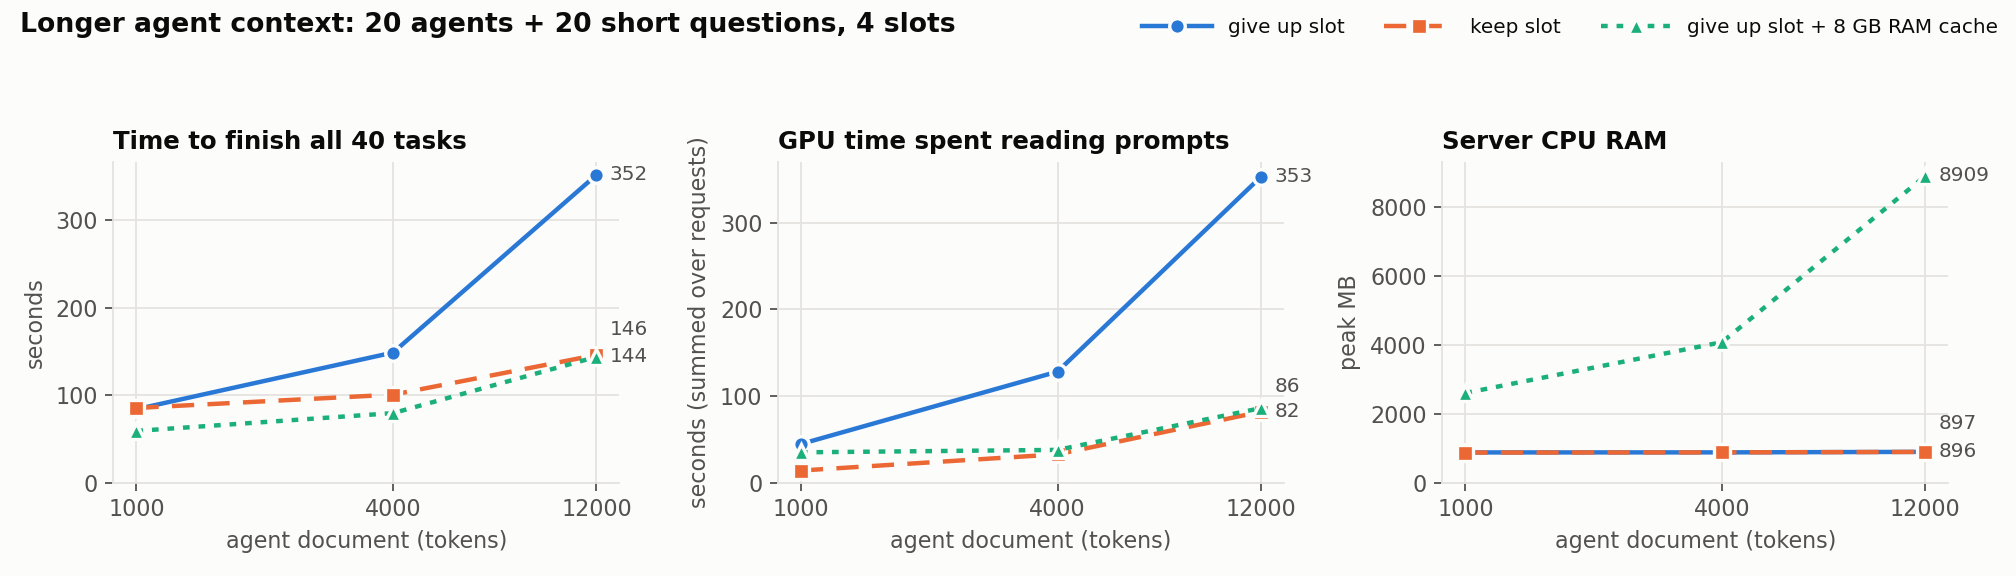
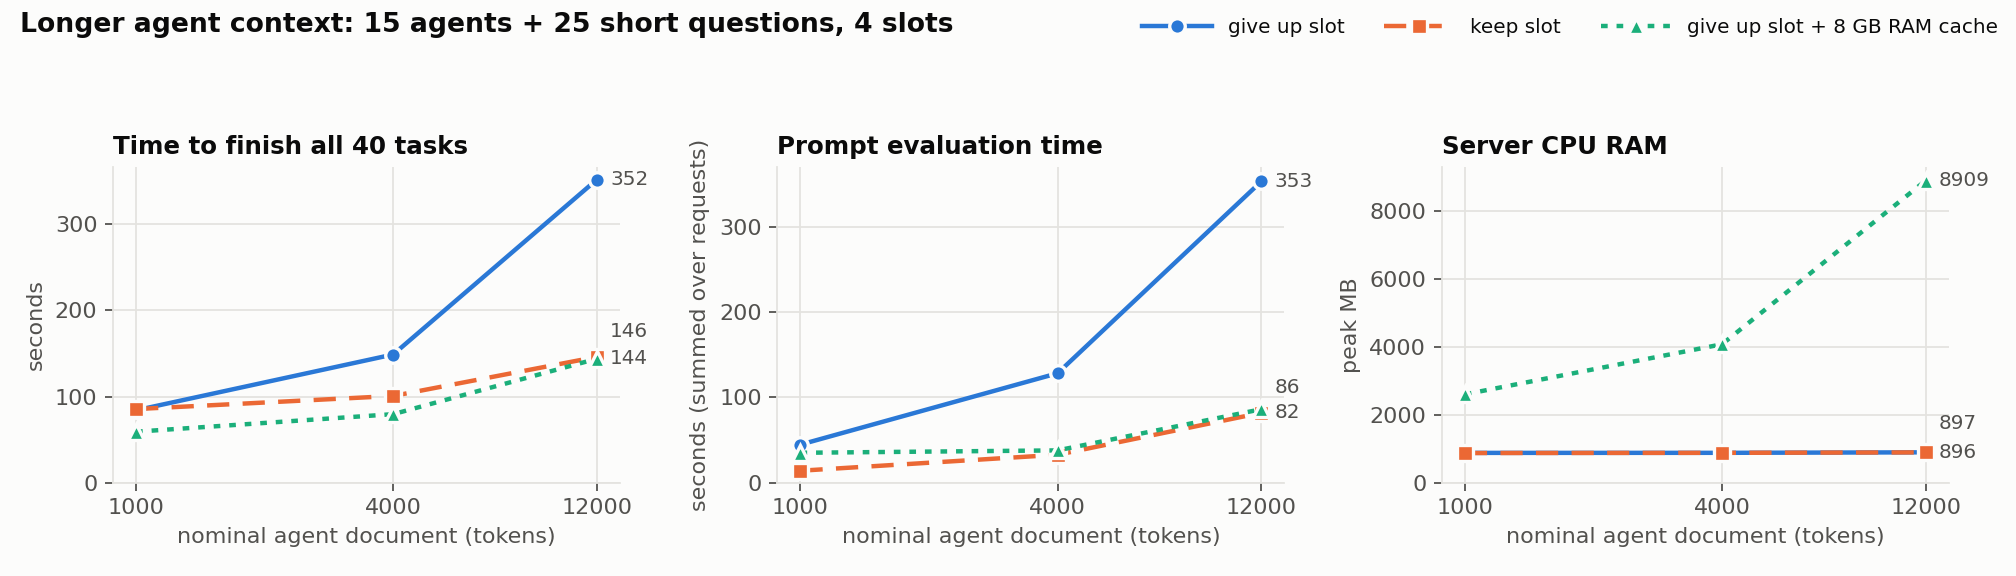
Audit v1 sweeps and correct result interpretations

diff --git a/analysis/plots.py b/analysis/plots.py
@@ -121,17 +121,17 @@ def main():
     df = pd.read_csv("results/runs_summary.csv")
 
     figure([("tok_per_s", "Throughput", "generated tokens / s"),
-            ("short_qa_p50_s", "Short QA wait", "median task time (s)"),
+            ("short_qa_p50_s", "Short QA completion", "median task time (s)"),
             ("multistep_p50_s", "Agent tasks", "median task time (s)"),
             ("peak_gpu_mb", "GPU memory", "peak MB")],
            sweep(df, "slots", r"_k(\d+)_"), "slots",
            "More slots: 80 real tasks, 4,096 KV tokens per slot", "slots (K)", logx=True)
 
     figure([("makespan_s", "Time to finish all 40 tasks", "seconds"),
-            ("prefill_s", "GPU time spent reading prompts", "seconds (summed over requests)"),
+            ("prefill_s", "Prompt evaluation time", "seconds (summed over requests)"),
             ("peak_rss_mb", "Server CPU RAM", "peak MB")],
            sweep(df, "ctx", r"_ctx_(\d+)_"), "context",
-           "Longer agent context: 20 agents + 20 short questions, 4 slots", "agent document (tokens)", logx=True)
+           "Longer agent context: 15 agents + 25 short questions, 4 slots", "nominal agent document (tokens)", logx=True)
 
     delay = sweep(df, "delay", r"_delay_([\d.]+)_")
     base = df[df.run.isin(["sw_slots_k4_gpuonly_fifo_request", "sw_slots_k4_gpuonly_fifo_task"])].copy()
@@ -139,7 +139,7 @@ def main():
     delay = pd.concat([delay, base]).sort_values("x")
     figure([("makespan_s", "Time to finish all 80 tasks", "seconds"),
             ("gpu_util_mean", "GPU busy", "mean utilisation (%)"),
-            ("short_qa_p50_s", "Short QA wait", "median task time (s)")],
+            ("short_qa_p50_s", "Short QA completion", "median task time (s)")],
            delay, "tool_delay", "Longer tool waits: 80 real tasks, 4 slots", "tool delay (s)")
 
     figure([("short_qa_p50_s", "Short QA", "median task time (s)"),

diff --git a/README.md b/README.md
@@ -25,6 +25,8 @@ memory, so that more tasks finish without running out of memory?
     with 60/60 workflows completed; its strict multistep accuracy was 13/30
   - a repeatable [Phase 1 FIFO protocol](docs/phase1_protocol.md) with a fresh
     server for each run, fixed `NP` during a `K` sweep, and per-type reporting
+  - an [audit of the earlier v1 sweeps](docs/v1_sweep_audit.md), including
+    scorer checks and limits on what their plots establish
 - **Not done yet:**
   - 4-bit KV and a too-small RAM cache (`bash scripts/sweep.sh extra`, queued)
   - repeat runs of the sweeps (each sweep config ran once)
@@ -130,7 +132,7 @@ every run sees exactly the same inputs.
   count as wrong.
 
 There is also an older synthetic generator, [workloads/generate.py](workloads/generate.py),
-which uses filler text with exact input and output lengths. It's useful for sweeps
+which uses filler text with approximate input lengths and forced output limits. It's useful for sweeps
 (for example "make every context 8k tokens"), but has no right answers.
 
 ## Results so far
@@ -150,6 +152,7 @@ which uses filler text with exact input and output lengths. It's useful for swee
 | Short QA correct | 19/20 | 19/20 | 19/20 | 19/20 | 19/20 |
 | Long-context QA correct | 9/10 | 9/10 | 9/10 | 9/10 | 9/10 |
 | Multi-step correct | 9/40 | 9/40 | 10/40 | 12/40 | 12/40 |
+| Writing within word range | 1/10 | 3/10 | 2/10 | 3/10 | 4/10 |
 
 **What this tells us:**
 
@@ -166,20 +169,21 @@ which uses filler text with exact input and output lengths. It's useful for swee
    matter more with longer contexts (the next sweep).
 4. **Keeping the slot helps agents but hurts short tasks.** Multi-step tasks
    finish faster, but short questions wait about 4× longer.
-5. **No setup made answers worse.**
-   - QA answers were identical in every run.
-   - Multi-step scores (9–12 out of 40) differ by about as much as running the
-     same setup twice, where 6 tasks flipped between right and wrong. llama.cpp
-     isn't perfectly repeatable when requests are batched together, even at
-     temperature 0.
-   - The low multi-step score is the model making arithmetic mistakes, not the
-     scheduler.
-   - Total output size was within 2% across setups, so no setup won by writing
-     less.
-6. **The same setup can vary by about 8% in total time** (257 vs 277 s), so sweeps
-   need repeated runs.
+5. **Automatic quality checks show a serious baseline limitation.**
+   - All 30 QA response texts were identical across these five runs (28 correct).
+   - Multi-step exact scores ranged from 9–12/40. Six individual tasks changed
+     correctness between the two repeats of the same request-FIFO setup.
+   - The first run had 124 output-limit stops in intermediate agent calls and 9
+     in final agent calls; 13 final answers were not valid JSON. Low accuracy
+     cannot be attributed solely to arithmetic or to scheduling.
+   - Only 1–4/10 writing responses met the required word range; writing
+     semantics were not judged. Generated output totals ranged from 29,105 to
+     30,133 tokens (3.4% relative to the largest), so compare actual output
+     lengths alongside speed.
+6. **One repeated setup changed total time by 7.6%** (257 vs 277 s). The other
+   cells need repeats before small speed differences can be trusted.
 
-**The main bottleneck:** what to do with an agent's KV cache while it waits for a
+**A measured trade-off:** what to do with an agent's KV cache while it waits for a
 tool.
 - Keeping it in GPU memory wastes the slot.
 - Throwing it away wastes compute on recomputing it.
@@ -200,12 +204,20 @@ keep-slot runs started with a warm cache. Treat them as rough.
 
 ## Sweeps
 
-Each sweep changes one thing and compares the two schedulers. The server is
-restarted before every run. Each config ran once; repeated runs differ by about 8%,
-so only trust differences bigger than that. Every run finished every task unless
-noted. Numbers come from [results/runs_summary.csv](results/runs_summary.csv).
+The server was restarted before every saved sweep run. Most settings ran once,
+so these plots show observed trends without uncertainty intervals. The slot
+sweep changes both scheduler concurrency and server KV allocation; the older
+synthetic context generator also changed other prompt text as document size
+changed. Read the [v1 sweep audit](docs/v1_sweep_audit.md) before treating a
+curve as a controlled effect. Every run finished every task except the 16k
+split-KV run noted below. Numbers come from
+[results/runs_summary.csv](results/runs_summary.csv).
 
-### More slots (80 real tasks, 4,096 KV tokens per slot)
+### More slots and server capacity (80 real tasks, 4,096 KV tokens per slot)
+
+Here `K=NP` and total `CTX=4096×NP`, so the number of slots and allocated KV
+memory grow together. The controlled v2 core matrix holds `NP` and `CTX` fixed
+while changing K.
 
 ![slots](results/plots/slots.png)
 
@@ -216,21 +228,27 @@ noted. Numbers come from [results/runs_summary.csv](results/runs_summary.csv).
 | 8 | 137 | 114 | 6.8 GB |
 | 16 | 196 | 139 | 8.6 GB |
 
-- **More slots = more speed, and we haven't hit the limit.** The GPU batches more
-  requests together. At 16 slots it uses only 8.6 of 24 GB, because these tasks
-  are short (under 4k tokens).
+- **More slots increased throughput in these four measured settings.** The GPU
+  batches more requests together. At 16 slots the run used about 8.6 GB of
+  GPU memory and had no memory failure for this v1 workload; longer contexts
+  could behave differently.
 - **Giving up the slot is 20–40% faster at every slot count.**
-- **Keeping the slot makes short questions wait 4–5× longer at every slot count.**
+- **Keeping the slot made short-question median completion time about 3.8–4.7×
+  longer** across these slot counts.
 - With more slots, a returning agent more often finds its old slot still free, so
   recompute drops from 91% (4 slots) to 56% (16 slots).
 
-### Longer agent context (synthetic: 20 agents + 20 short questions, 4 slots)
+### Longer agent context (synthetic: 15 agents + 25 short questions, 4 slots)
 
-Agents start from a document of 1k, 4k, or 12k tokens, then make 4 tool calls.
+Agents start from a document generated at a nominal size of 1k, 4k, or 12k
+tokens, then make 4 tool calls. Measured median initial agent prompts were
+about 0.98k, 3.50k, and 10.13k tokens. The same generator seed kept the task
+types fixed, but changing document size also changed most other task and tool
+text; this is not a paired size-only experiment.
 
 ![context](results/plots/context.png)
 
-| Agent document | Give up slot | Keep slot | Give up slot + RAM cache |
+| Nominal agent document | Give up slot | Keep slot | Give up slot + RAM cache |
 |---|---:|---:|---:|
 | 1k tokens | 84 s | 85 s | **59 s** |
 | 4k tokens | 149 s | 101 s | **80 s** |
@@ -238,13 +256,14 @@ Agents start from a document of 1k, 4k, or 12k tokens, then make 4 tool calls.
 
 (Time to finish all 40 tasks.)
 
-- **With long contexts the winner flips.** Giving up the slot means re-reading
-  almost 100% of the conversation after every tool call, which at 12k tokens is
-  2.4× slower than keeping the slot. With the short 80 real tasks it was the
-  other way around.
-- **The RAM cache gets the best of both**: near 0% recompute, and short questions
-  stay fast. But at 12k it used **8.9 GB of CPU RAM**, which fills its 8 GB limit
-  on a machine with 16 GB. More or longer agents would overflow it.
+- **The nominal 12k run shows a large reversal:** request FIFO took 352 s
+  versus 146 s for task FIFO, with nearly all carried-over context recomputed.
+  Because other prompt text changed, this is suggestive rather than an isolated
+  estimate of the effect of document length.
+- **The RAM-cache request run combined low recomputation with short-question
+  responsiveness** in this synthetic mix. At nominal 12k it reached **8.9 GB
+  server RSS** with an 8 GB cache budget; more cached contexts could cause
+  evictions or host-memory pressure.
 
 ### Longer tool waits (80 real tasks, 4 slots)
 
@@ -257,8 +276,8 @@ Agents start from a document of 1k, 4k, or 12k tokens, then make 4 tool calls.
 | 5 s | 273 s | 454 s | 81% |
 | 10 s | 276 s | **691 s** | 64% |
 
-- When agents give up their slot, tool waits are hidden: other requests use the
-  slot meanwhile.
+- When agents give up their slot, other requests use it during tool waits; the
+  measured makespan stayed near 271–276 s across these wait settings.
 - When agents keep their slot, it sits idle for the whole wait. At 10 s waits
   everything takes 2.5× longer and the GPU is idle about a third of the time.
 
@@ -266,25 +285,28 @@ Agents start from a document of 1k, 4k, or 12k tokens, then make 4 tool calls.
 
 ![arrival rate](results/plots/arrival_rate.png)
 
-- At light load (one task every 4 s), both schedulers behave about the same.
+- At the lowest offered rate, overall median task times were 17 s versus 21 s;
+  the short-question medians still differed (0.3 s versus 6.2 s).
 - As load grows, keeping the slot makes short questions wait 6–9× longer (72 s vs
   12 s at 1 task/s), while agent tasks finish faster (117 s vs 165 s).
 
 ### Memory options (80 real tasks, 8 slots, give up slot)
 
-| Setup | Finished | Time | GPU memory | Answers |
+| Setup | Finished | Time | GPU memory | Automatic quality check |
 |---|---:|---:|---:|---|
-| 32k tokens split 8 ways (normal) | 80/80 | 210 s | 6.8 GB | baseline |
+| 32k tokens split 8 ways (normal) | 80/80 | 210 s | 6.8 GB | 28/30 QA, 9/40 multistep |
 | 16k tokens split 8 ways (2k per slot) | **73/80** | 198 s | 5.9 GB | 7 long documents rejected |
-| 16k tokens as one shared pool (`--kv-unified`) | 80/80 | 221 s | 5.9 GB | same as baseline |
-| 32k tokens, 8-bit KV (`-ctk q8_0 -ctv q8_0`) | 80/80 | 224 s | 6.0 GB | same as baseline |
+| 16k tokens as one shared pool (`--kv-unified`) | 80/80 | 221 s | 5.9 GB | 28/30 QA, 9/40 multistep |
+| 32k tokens, 8-bit KV (`-ctk q8_0 -ctv q8_0`) | 80/80 | 224 s | 6.0 GB | 28/30 QA, 13/40 multistep |
 
-- **A shared KV pool matches the normal setup with half the KV memory**, because
-  a long document can use space the short tasks aren't using.
-- **8-bit KV saves about 0.9 GB** with the same answers, about 6% slower (within
-  noise).
-- The 16k-split run looks fastest only because it **skipped 7 tasks**. That's
-  why we always report finished tasks next to speed.
+- **A shared KV pool completed all tasks with a smaller total CTX allocation**
+  and about 0.9 GB less observed GPU memory. Its 221 s versus 210 s is a
+  single-run comparison.
+- **8-bit KV used about 0.9 GB less GPU memory** than the standard 32k run.
+  QA scores matched, while multistep scores differed; the single runs do not
+  establish whether compression changed answer quality.
+- The 16k-split run rejected **7 long-context tasks with HTTP 400**, so its
+  198 s makespan is not comparable to an 80/80 completion run.
 
 ### Bringing KV back after a tool call (microbenchmark, 1 slot)
 
@@ -299,24 +321,29 @@ Agents start from a document of 1k, 4k, or 12k tokens, then make 4 tool calls.
 
 - The KV cache is about **57 KB per token** (1.7 GB for 30k tokens).
 - **RAM is about 12× faster than recompute.**
-- **llama.cpp's SSD restore is no faster than recomputing**, even on the local
-  NVMe disk. Both disks read at about 130 MB/s, so the slow part is llama.cpp's
-  loading code, not the disk. A faster SSD path should take well under 1 s.
+- **SSD restore took about 13 s**, close to recomputation at roughly 13–15 s,
+  on both EBS and local NVMe. The effective rate was about 132 MB/s for a 1.72
+  GB slot file. This test does not isolate disk I/O from llama.cpp loading and
+  memory-copy costs.
 
-## What Phase 1 shows
+## Provisional Phase 1 lessons from v1
 
-**The main bottleneck is what to do with an agent's KV cache while it waits for a
-tool**, and no fixed rule wins everywhere:
+The completed v1 sweeps show a trade-off between reusing an agent's context and
+freeing its slot during a tool wait. The table describes the observed direction
+of the single-run comparisons, not a tuned policy choice for every workload.
+The 12k synthetic inputs were not paired across document sizes, and the new v2
+matrix will test these patterns with stronger controls.
 
-| Situation | Best fixed choice | Why |
+| Situation | Favorable choice in these runs | Observed reason |
 |---|---|---|
 | Short context | give up the slot | recompute is cheap; the slot keeps working |
-| Long context, short wait | keep the slot | recompute is expensive (2.4× slower at 12k) |
-| Long wait | give up the slot | a kept slot sits idle (2.5× slower at 10 s) |
-| Long context **and** long wait | offload to CPU RAM | RAM restore is 12× cheaper than recompute, but RAM fills up fast |
+| Nominal 12k context, 2 s wait | keep the slot | request FIFO made 40 tasks take 352 s versus 146 s for task FIFO in the synthetic run |
+| 10 s tool wait with v1 tasks | give up the slot | task FIFO took 691 s versus 276 s for request FIFO |
+| Long context with RAM cache | give up the slot with RAM cache | the nominal 12k RAM-cache run took 144 s; 30k-token RAM restore was faster than recompute in the microbenchmark |
 
-A fixed slot count has the same problem. Too few slots waste the GPU, and too
-many will run out of KV memory once contexts get long.
+Raising slots and total KV allocation together improved throughput in the
+measured 2–16 slot range. The v1 runs do not establish the point at which
+additional slots stop helping or exhaust memory.
 
 **Phase 2 plan:** at each tool call, decide whether to **keep** the KV in GPU,
 **move** it to CPU RAM or SSD, or **drop** it and recompute later, based on
@@ -326,6 +353,8 @@ priority so long tasks aren't starved. Compare against both FIFO schedulers and
 the best tuned fixed setup (more slots, shared KV pool, 8-bit KV).
 
 ## How to run (on the GPU machine)
+
+To reproduce the **older v1 experiments** summarized above:
 
 ```bash
 bash setup/setup_node.sh                 # one-time: build llama.cpp, download model
@@ -349,7 +378,7 @@ python -m analysis.summarize      # results/runs_summary.csv
 python -m analysis.plots          # results/plots/*.png
 ```
 
-For the controlled v2 comparison, generate the fixed 60-task subset with
+For the **controlled v2 comparison**, generate the fixed 60-task subset with
 `python -m scripts.select_validation`, inspect the matrix with
 `python -m scripts.phase1_fifo --workload workloads/generated/validation_v2_60.jsonl --prefix phase1_v2_batch --dry-run`,
 then execute without `--dry-run`. See the [full protocol](docs/phase1_protocol.md)

diff --git a/docs/v1_sweep_audit.md b/docs/v1_sweep_audit.md
@@ -1,0 +1,94 @@
+# Audit of the earlier v1 sweeps
+
+This audits the saved v1 results described in the main README, separately from
+the controlled v2 run now in progress. The older sweeps are development evidence,
+not final repeated estimates.
+
+## What was checked
+
+- All **33** `sw_*` run directories with a `summary.json`: 8 slot, 6 tool-delay,
+  6 arrival-rate, 9 synthetic-context, and 4 KV-configuration runs.
+- `tasks.csv`, `requests.csv`, `predictions.jsonl`, `summary.json`, and
+  `config.json` row counts/statuses. The 24 fixed-v1 runs also have
+  `quality/quality_summary.json`; their QA, multistep, and writing-length
+  totals were recomputed from saved predictions and canonical v1 references.
+- The saved `results/runs_summary.csv` task counts, latency, throughput,
+  memory, and quality fields were compared with the source run summaries.
+
+**Result:** the checked summary fields match the raw files. All 33 directories
+have the expected number of predictions. **32/33** sweeps completed every
+offered task. The exception is
+[`sw_kv_split16k_gpuonly_fifo_request`](../results/raw/sw_kv_split16k_gpuonly_fifo_request/):
+73/80 completed; seven long-context prompts received HTTP 400 because the
+2,048-token per-slot limit was too small. That run cannot be called a speed win
+over complete 80/80 runs. These checks verify recorded execution and scorer
+arithmetic; they do not independently prove every task reference is correct.
+
+## What the sweeps actually vary
+
+| Sweep | Saved observations | Limit on interpretation |
+|---|---|---|
+| Slots | `K=NP=2,4,8,16` and `CTX=4096×NP`; 80 fixed v1 tasks, two FIFOs | Scheduler concurrency, number of server slots, and total allocated KV memory change together. It is a serving-capacity curve, not a fixed-server K-only curve. |
+| Tool delay | 0.5, 5, 10 s at K=NP=4, plus a 2 s point from the slot sweep | Same v1 tasks, but each cell ran once. The large 10 s task-FIFO penalty is observed; precise break-even needs repeats. |
+| Arrival rate | Poisson 0.25, 0.5, 1.0 tasks/s at K=NP=4 | Same canonical tasks and seed; one replay per cell. Makespan includes the arrival span, so report offered rate and task latency alongside throughput. |
+| Synthetic context | Nominal 1k, 4k, 12k initial documents; 40 tasks per run | The generator produced **15 multistep agents and 25 short QA tasks**, not 20+20. It reused one RNG across task creation, so changing document size also changed most task instructions, short questions, and tool texts. These are not paired size-only inputs. No reference accuracy score exists. |
+| KV configuration | Split 16k, unified 16k, and 8-bit KV compared with the standard 32k K=8 run | The split 16k run failed 7 tasks. Unified KV reduced observed whole-GPU memory from 6,813 to 5,937 MiB. QA scores match across the complete runs, but multistep scores and generated text vary. |
+| KV restore microbenchmark | 30k-token, 3 trials per storage mode, one slot | RAM restore ≈1.24 s, EBS and NVMe restores ≈13.06 s, GPU-retained ≈0.04 s. Effective restore rate is ≈132 MB/s for a 1.72 GB slot file. The measurements alone do not separate disk bandwidth, llama.cpp loading, and memory-copy costs. |
+
+In the synthetic context sweep, measured median **initial** multistep prompts
+were approximately **983, 3,499, and 10,128 tokens**. The 1k/4k/12k labels
+are nominal generator settings. Regenerating the inputs from the recorded seed
+and code gives the same 15/25 type mix at all three settings, but among the 15
+agents only **1** kept the same task instruction and **0** kept the same later
+tool inputs when moving from nominal 1k to 12k. Only **2/25** short-question
+prompts were identical. The large latency difference is suggestive, but cannot
+be attributed only to document length.
+
+## Quality and output checks
+
+The five 80-task runs in the main README all completed 80/80, and the **30 QA
+response texts were identical** across them (28/30 correct). Multistep exact
+scores were **9–12/40**; even the repeated request-FIFO configuration flipped
+six individual multistep correctness outcomes while staying at 9/40 total.
+Writing responses met their required word ranges in only **1–4/10** tasks,
+depending on the run; writing semantics were not judged. The five runs generated
+29,105–30,133 tokens, a **3.4%** range relative to the largest total, rather
+than a range within 2%.
+
+The first GPU-only request-FIFO run had **124 output-limit stops in 172
+intermediate multistep calls**, and 9/40 multistep final calls hit their limit.
+Among its incorrect multistep answers, 18 had wrong or missing fields and 13
+were not valid JSON. The low score therefore cannot be described solely as
+arithmetic mistakes. Completion of all scheduled calls is distinct from
+correctness or compliance with output requirements.
+
+The 8-bit KV run scored **13/40** multistep answers versus **9/40** for the
+standard K=8 request-FIFO run; QA stayed **28/30**, and writing word-range
+compliance was **2/10 versus 3/10**. “Same answers” is not accurate. These
+differences could reflect batching variation; the single runs do not isolate
+an 8-bit KV quality effect.
+
+## Provenance and reuse
+
+[`scripts/sweep.sh`](../scripts/sweep.sh) restarts llama-server before each
+sweep run. The earlier synthetic pilot did not restart between its two policies
+and remains a rough comparison. The sweep `config.json` files record workload
+metadata and a model path, but not a per-run workload hash, model checksum, or
+llama.cpp commit. An environment snapshot records the runtime once. Source
+revisions changed during the sweep collection; the changes between the two
+recorded revisions affected the sweep and microbenchmark scripts, not the task
+generator or runner. Synthetic generated JSONL inputs were not committed, so
+the exact prompt bytes cannot be recovered from the raw run folders alone.
+
+The original sweep script continues after a failed launch or runner invocation
+and can still print a group-level `done` message. The run-directory checks
+above, rather than that message, establish which saved runs completed. The
+context plot also originally labeled the mix as 20 agents plus 20 questions;
+the regenerated plot now uses the recorded 15/25 mix. Its prompt-evaluation
+panel sums request-level durations, so it is not exclusive GPU time.
+
+The strongest provisional trends are the slot-capacity/throughput trade-off,
+task FIFO's long-wait penalty, and context-recomputation cost. Small speed and
+quality differences need repeated, paired runs. The new v2 protocol keeps NP
+and CTX fixed while sweeping K, records workload/model/runtime checksums, and
+builds paired synthetic context and output-length inputs.
